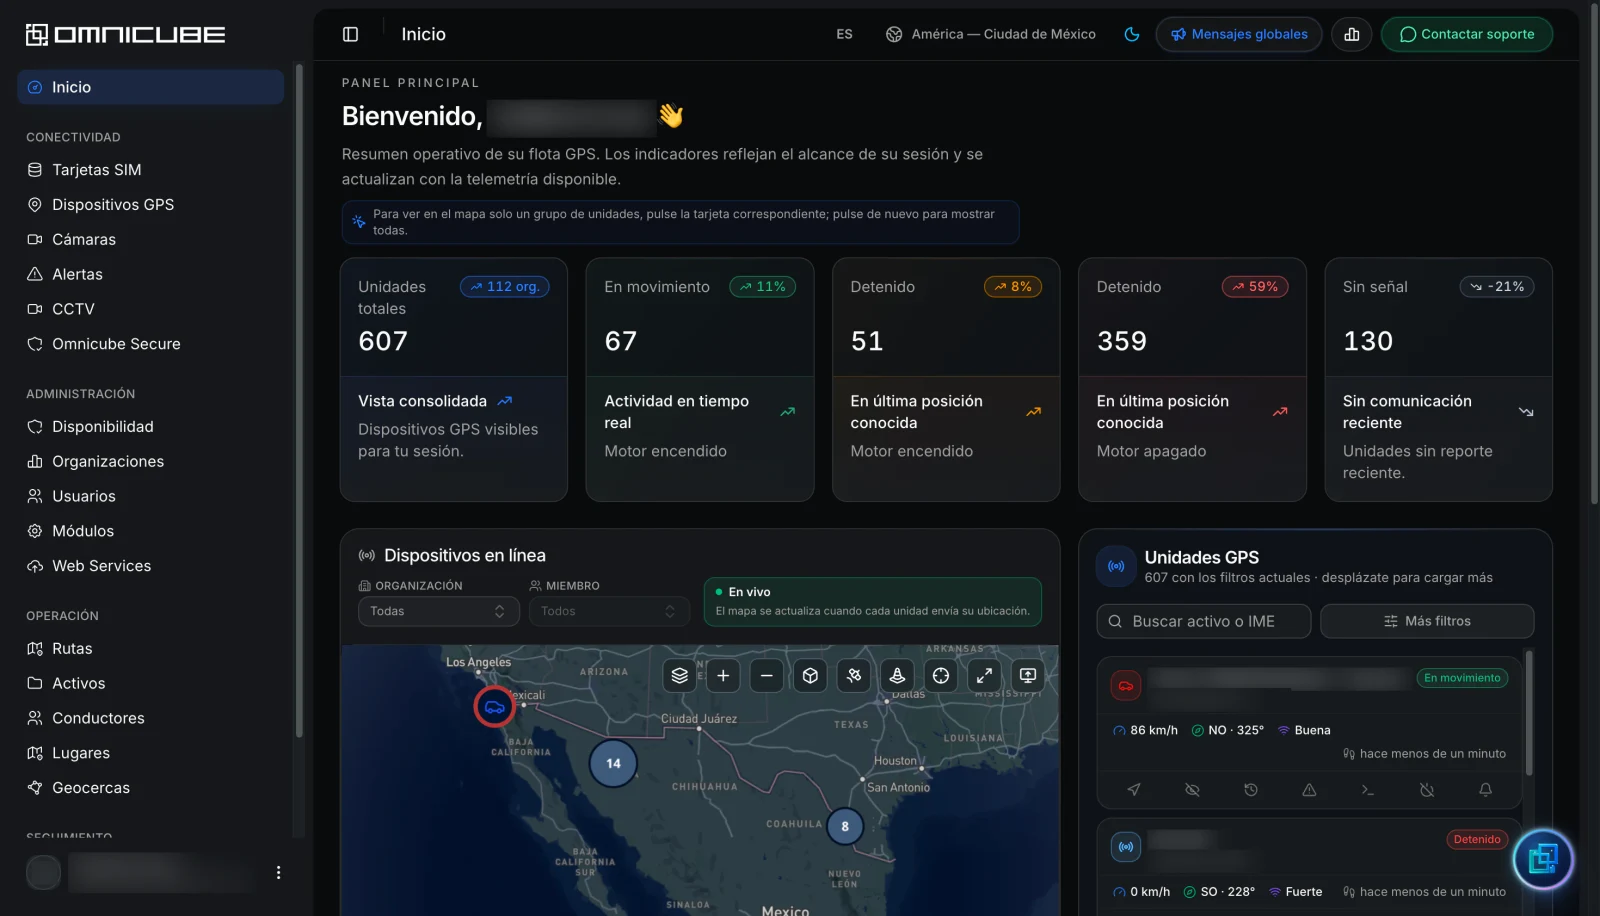
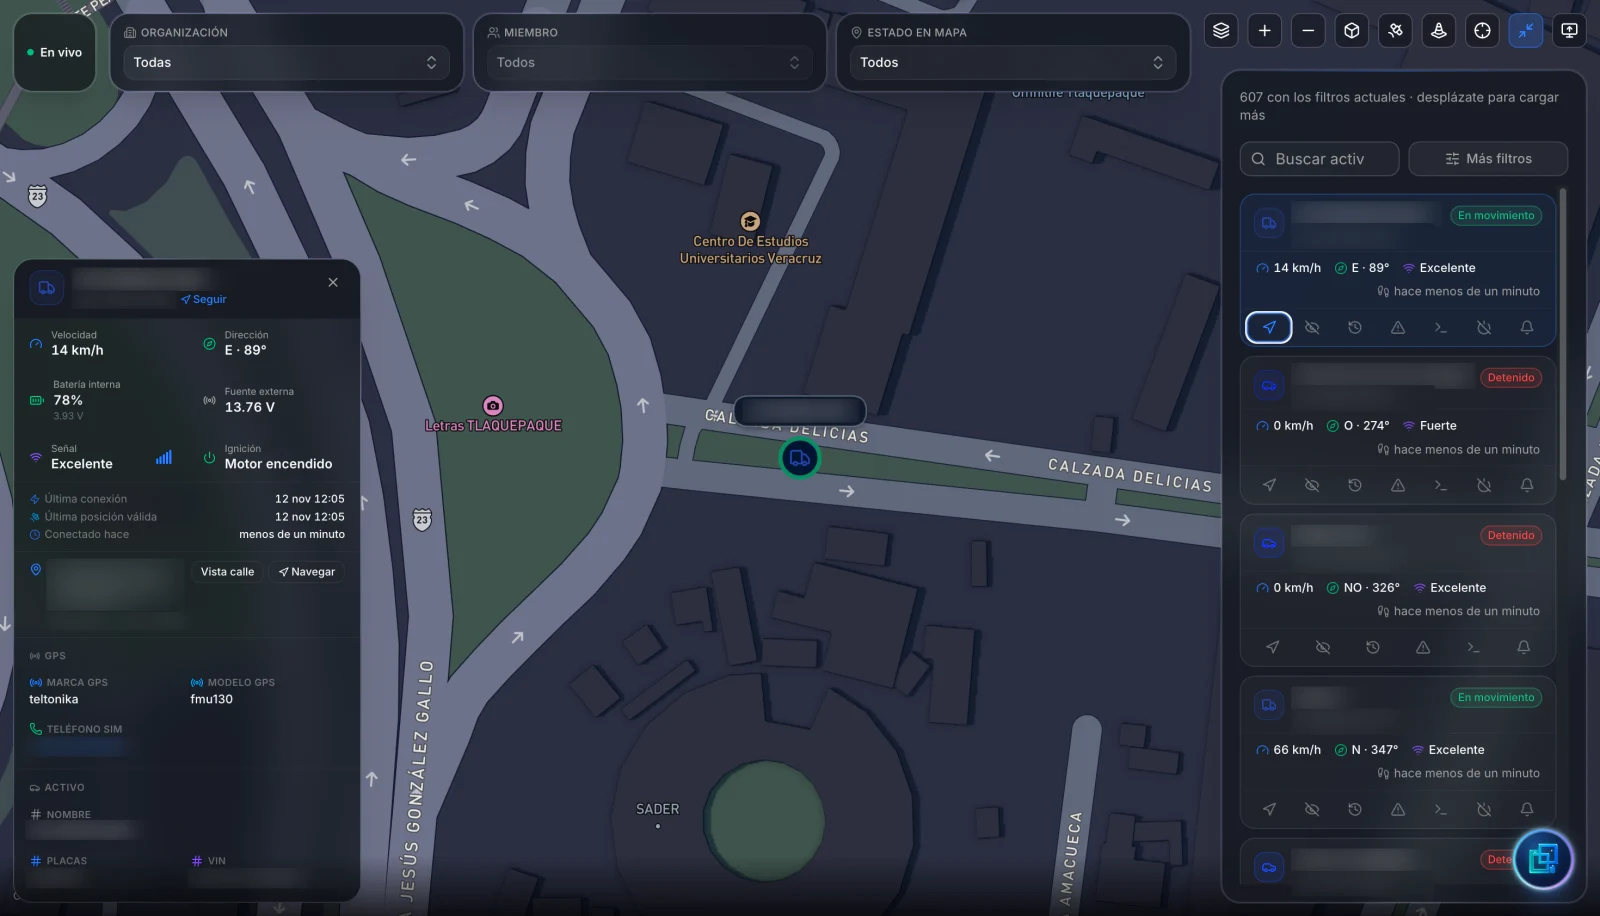
Show a distinct OmniCube telemetry capture in the project gallery

diff --git a/src/workers/canonicalRedirect.ts b/src/workers/canonicalRedirect.ts
@@ -1,4 +1,4 @@
-export default {
+const canonicalRedirect = {
   fetch(request: Request): Response {
     const destination = new URL(request.url);
     destination.protocol = "https:";
@@ -7,3 +7,5 @@ export default {
     return Response.redirect(destination.toString(), 308);
   },
 };
+
+export default canonicalRedirect;
